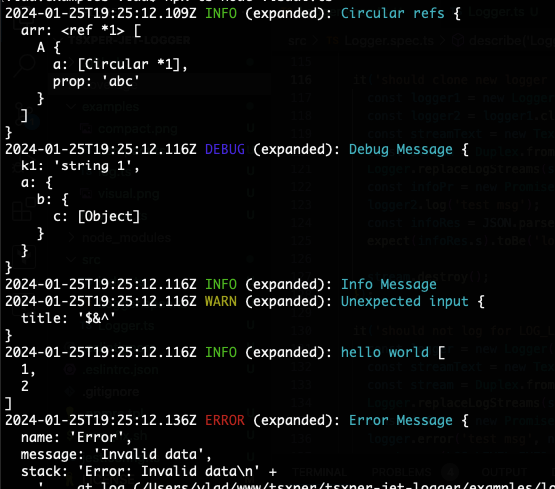
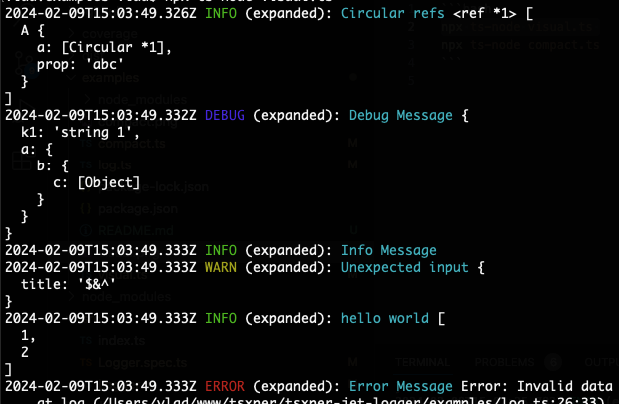
Detached from NodeJS streams. Improved JSON serialization.

Changed region(s): [[0.0, 0.505, 1.0, 1.0], [0.0, 0.0, 0.8577, 0.505], [0.6126, 0.7129, 0.7964, 0.7426]]

diff --git a/src/Logger.ts b/src/Logger.ts
@@ -1,4 +1,4 @@
-import util from 'util';
+import { toJSON } from '@tsxper/cyclic-object';
 import { EOL } from 'os';
 
 export const LOG_LEVEL_NONE = 0;
@@ -26,6 +26,11 @@ type BUF_RECORD = {
   data: string;
 };
 
+export interface WriteStreamSimplified {
+  write(str: Uint8Array | string): boolean;
+  once(event: "drain", listener: () => void): unknown;
+}
+
 export class Logger {
   protected scope: string;
   protected logLevel: LOG_LEVEL;
@@ -42,8 +47,8 @@ export class Logger {
     [LOG_LEVEL_DEBUG]: 'DEBUG',
   };
   protected formatter: LOG_FORMATTER;
-  protected static stdout: NodeJS.WritableStream = process.stdout;
-  protected static stderr: NodeJS.WritableStream = process.stdout;
+  protected static stdout: WriteStreamSimplified = process.stdout;
+  protected static stderr: WriteStreamSimplified = process.stdout;
   protected static buffer: Record<TARGET, BUF_RECORD[]> = {
     'err': [],
     'out': [],
@@ -65,7 +70,7 @@ export class Logger {
     this.formatter = this.defaultFormatter.bind(this);
   }
 
-  static replaceLogStreams(stdout: NodeJS.WritableStream, stderr: NodeJS.WritableStream): void {
+  static replaceLogStreams(stdout: WriteStreamSimplified, stderr: WriteStreamSimplified): void {
     Logger.stdout = stdout;
     Logger.stderr = stderr;
   }
@@ -186,15 +191,7 @@ export class Logger {
   }
 
   protected toJson(msg: DEFAULT_FORMAT): string {
-    try {
-      return JSON.stringify(msg);
-    } catch (e) {
-      if (e instanceof Error && e.name === 'TypeError' && e.message.indexOf('circular structure') >= 0 && msg.d) {
-        msg.d = util.formatWithOptions({ depth: this.depth }, '%O', msg.d);
-        return JSON.stringify(msg);
-      }
-      throw e;
-    }
+    return toJSON(msg, this.depth + 1);
   }
 
   protected addDoubleSlashed(s: string): string {

diff --git a/src/Logger.spec.ts b/src/Logger.spec.ts
@@ -13,7 +13,7 @@ describe('Logger', () => {
     logger.debug('line1\nline2');
     const res1 = JSON.parse((await pr1).toString()) as DEFAULT_FORMAT;
     expect(res1.n).toBe('line1\\nline2');
-    
+
     Logger.setDoubleSlashes(false);
     const pr2 = new Promise<Buffer>((resolve) => stream.once('data', (d) => resolve(d)));
     logger.debug('line1\nline2');
@@ -81,10 +81,11 @@ describe('Logger', () => {
     const stream = Duplex.from(streamText);
     const logger = new Logger(LOG_LEVEL_DEBUG, 'circular');
     Logger.replaceLogStreams(stream, stream);
+    Logger.setDoubleSlashes(false);
     const infoPr = new Promise<Buffer>((resolve) => stream.once('data', (d) => resolve(d)));
     logger.log('cycles', { a });
     const infoRes = JSON.parse((await infoPr).toString()) as DEFAULT_FORMAT;
-    expect(infoRes?.d).toBe('{ a: <ref *1> [ A { a: [Circular *1] } ] }');
+    expect(JSON.stringify(infoRes?.d)).toBe('{"a":[{"a":"[Circular]"}]}');
     expect(infoRes?.s).toBe('circular');
     expect(infoRes?.n).toBe('cycles');
     expect(infoRes?.e).not.toBeDefined();

diff --git a/examples/log.ts b/examples/log.ts
@@ -1,15 +1,15 @@
-import { LOG_LEVEL_DEBUG, Logger } from '../src/index';
+import { Logger } from '../src/index';
 
 class A {
   prop = 'abc';
   constructor(public a: A[]) { }
 }
 
-export const log = (scope: string) => {
+export const log = (logger: Logger) => {
   const arr: A[] = [];
   const obj = new A(arr);
   arr.push(obj);
-  const logger = new Logger(LOG_LEVEL_DEBUG, scope);
+
   logger.setDepth(1);
   logger.log('Circular refs', arr);
   logger.debug('Debug Message', {

diff --git a/examples/visual.ts b/examples/visual.ts
@@ -1,3 +1,8 @@
+import { LOG_LEVEL_DEBUG, Logger } from '../src';
 import { log } from './log';
+import { FormatterVisual } from '@tsxper/log-stream-formatter-visual';
 
-log('expanded');
+const logger = new Logger(LOG_LEVEL_DEBUG, 'expanded');
+const visual = new FormatterVisual();
+logger.setFormatter(visual.formatter.bind(visual));
+log(logger);

diff --git a/examples/compact.ts b/examples/compact.ts
@@ -1,3 +1,5 @@
+import { LOG_LEVEL_DEBUG, Logger } from '../src';
 import { log } from './log';
 
-log('compact');
+const logger = new Logger(LOG_LEVEL_DEBUG, 'compact');
+log(logger);

diff --git a/README.md b/README.md
@@ -5,7 +5,7 @@
 ![npm type definitions](https://img.shields.io/npm/types/@tsxper/log-stream)
 [![NPM Downloads](https://img.shields.io/npm/dt/@tsxper/log-stream.svg?style=flat-square)](https://www.npmjs.com/package/@tsxper/log-stream)
 
-*@tsxper/log-stream* is a TypeScript stream-based NodeJS logger.
+*@tsxper/log-stream* is a TypeScript stream-based logger.
 
 Main features of the *@tsxper/log-stream* are:
 - each log record is represented as JSON;
@@ -19,6 +19,14 @@ Main features of the *@tsxper/log-stream* are:
 - easy streams replacement;
 - circular references safety;
 - easy configuration spreading through cloning;
+
+It supports any stream that implements *WriteStreamSimplified* interface.
+```TypeScript
+interface WriteStreamSimplified {
+  write(str: Uint8Array | string): boolean;
+  once(event: "drain", listener: () => void): unknown;
+}
+```
 
 ## Configuration
 

diff --git a/CHANGELOG.md b/CHANGELOG.md
@@ -1,3 +1,6 @@
+## V 2.1.0
+Detached from NodeJS interfaces. 
+
 ## V 2.0.1
 
 ### Backpressure is supported.

diff --git a/examples/README.md b/examples/README.md
@@ -1,0 +1,4 @@
+```bash
+npx ts-node visual.ts 
+npx ts-node compact.ts
+```
